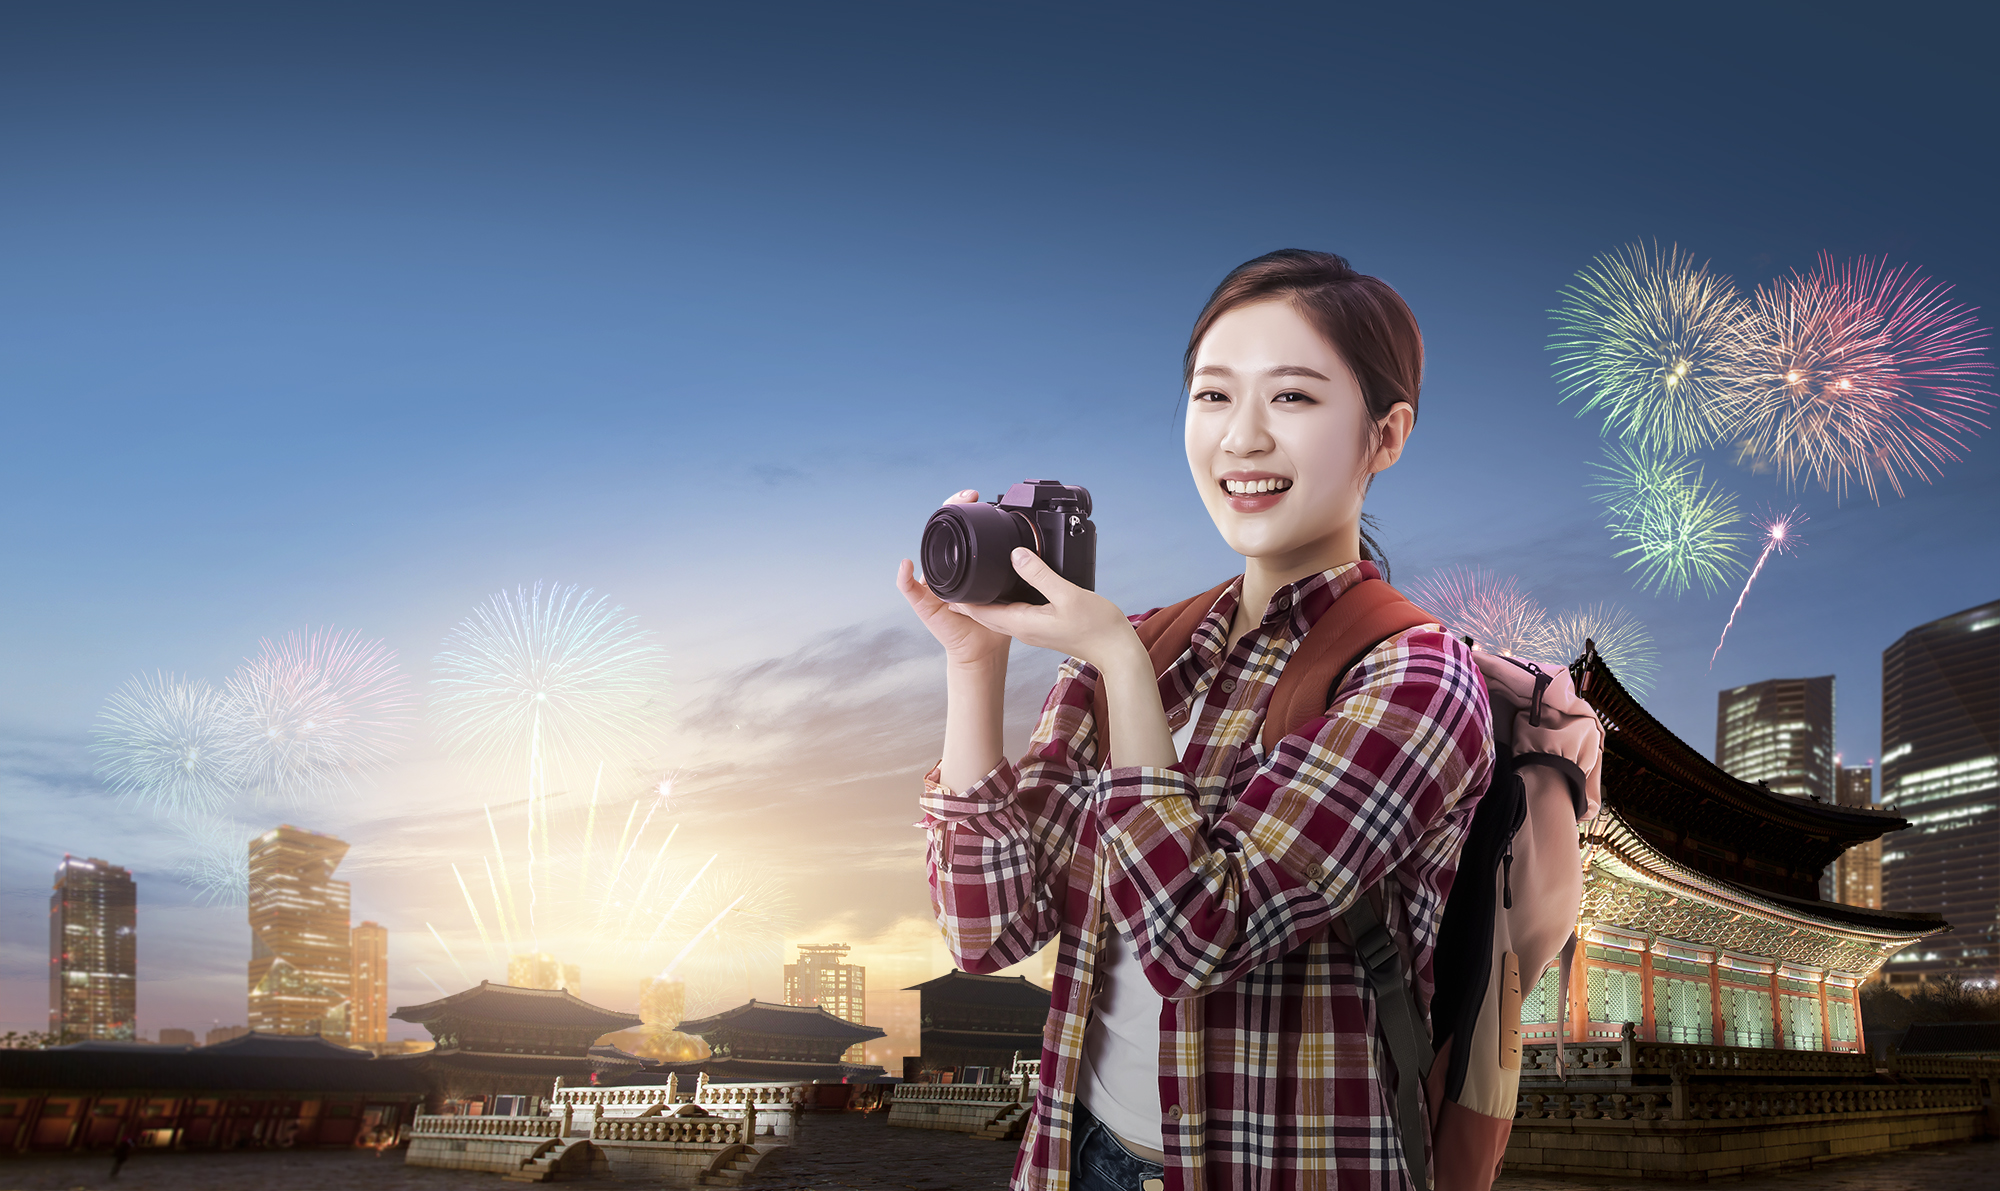
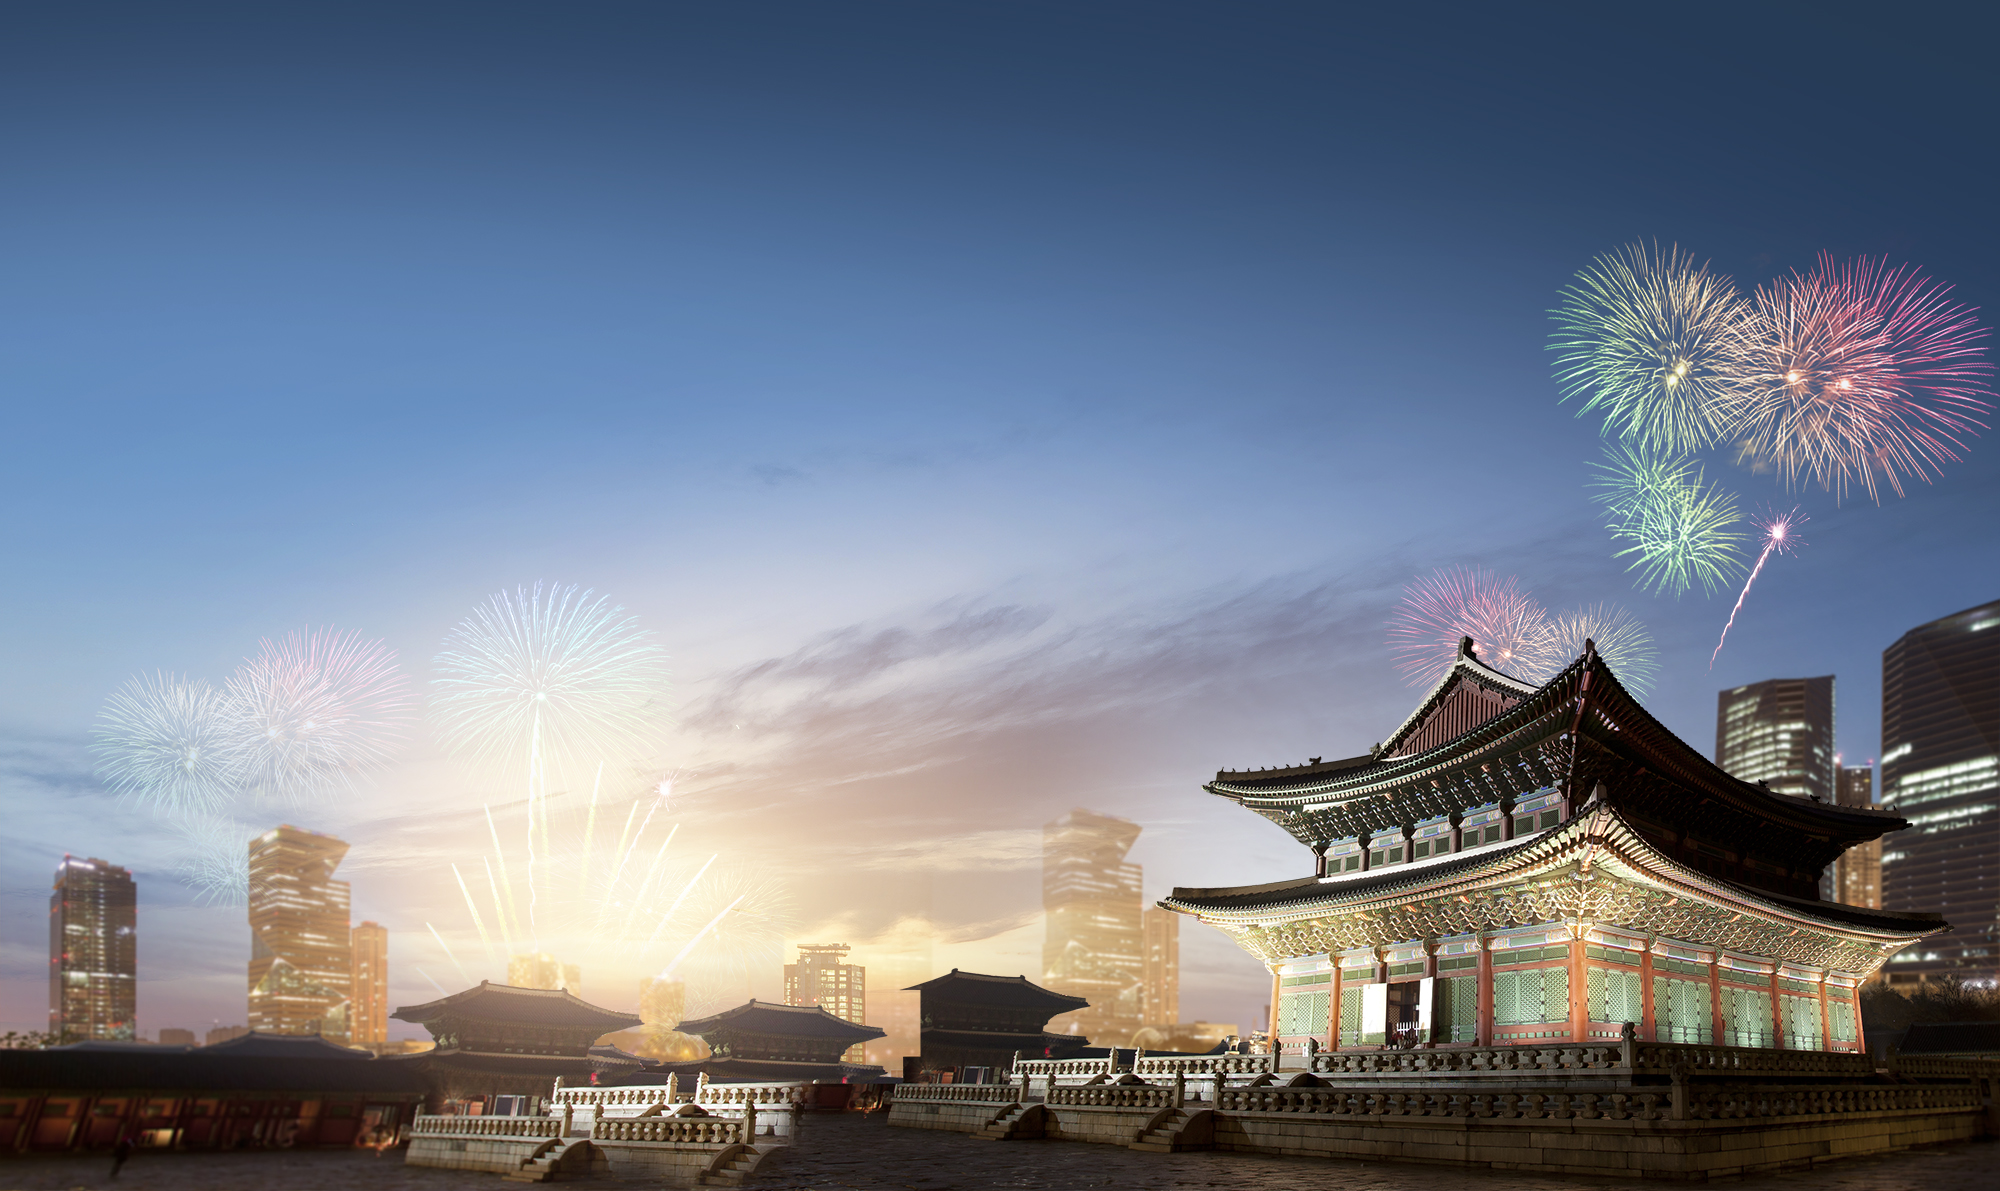
.

Changed region(s): [[0.434, 0.1864, 0.806, 1.0]]

diff --git a/info/main.json.ts b/info/main.json.ts
@@ -1,7 +1,7 @@
 const info = {
     title: `PinkRoder allows people, time, and space to coexist.`,
-    subtitle: `사람과시간과공간들의공존<br />
-    핑크로더는사라져가는가치있는것들을위해컨텐츠를개발하고소통합니다.`,
+    subtitle: `사람과 시간과 공간들의 공존<br class="no" />
+    핑크로더는 사라져가는 가치 있는 것 들을 위해 컨텐츠를 개발하고 소통합니다.`,
     tourLink: ``,
 }
 

diff --git a/pages/index.tsx b/pages/index.tsx
@@ -65,7 +65,7 @@ export const Main: React.FC<IProp> = () => {
     <div className="main_con_box1">
           <div
             className="main_top_images"
-              style={{ backgroundImage: `url(/img/main_bg_03.jpg)` }}
+              style={{ backgroundImage: `url(/img/main_bg_07.jpg)` }}
           >
                 <div className="w1200">
                       <strong {...edit("title")} />

diff --git a/pages/site-info.tsx b/pages/site-info.tsx
@@ -232,7 +232,9 @@ export const StieInfo: React.FC<IProp> = () => {
                     We walk the right path rather than the easy one
                 </h4>
                 <span>제휴문의</span>
+                
             </div>
+            <div className="ovj"></div>
             <div className="bg" />
         </div>
         {open && <div style={{

diff --git a/pages/portfolio.tsx b/pages/portfolio.tsx
@@ -234,9 +234,6 @@ export const PortFolio: React.FC<IProp> = () => {
                         </div>
                     </div>
                 </div>
-
-
-
             </div>
 
         </div>
